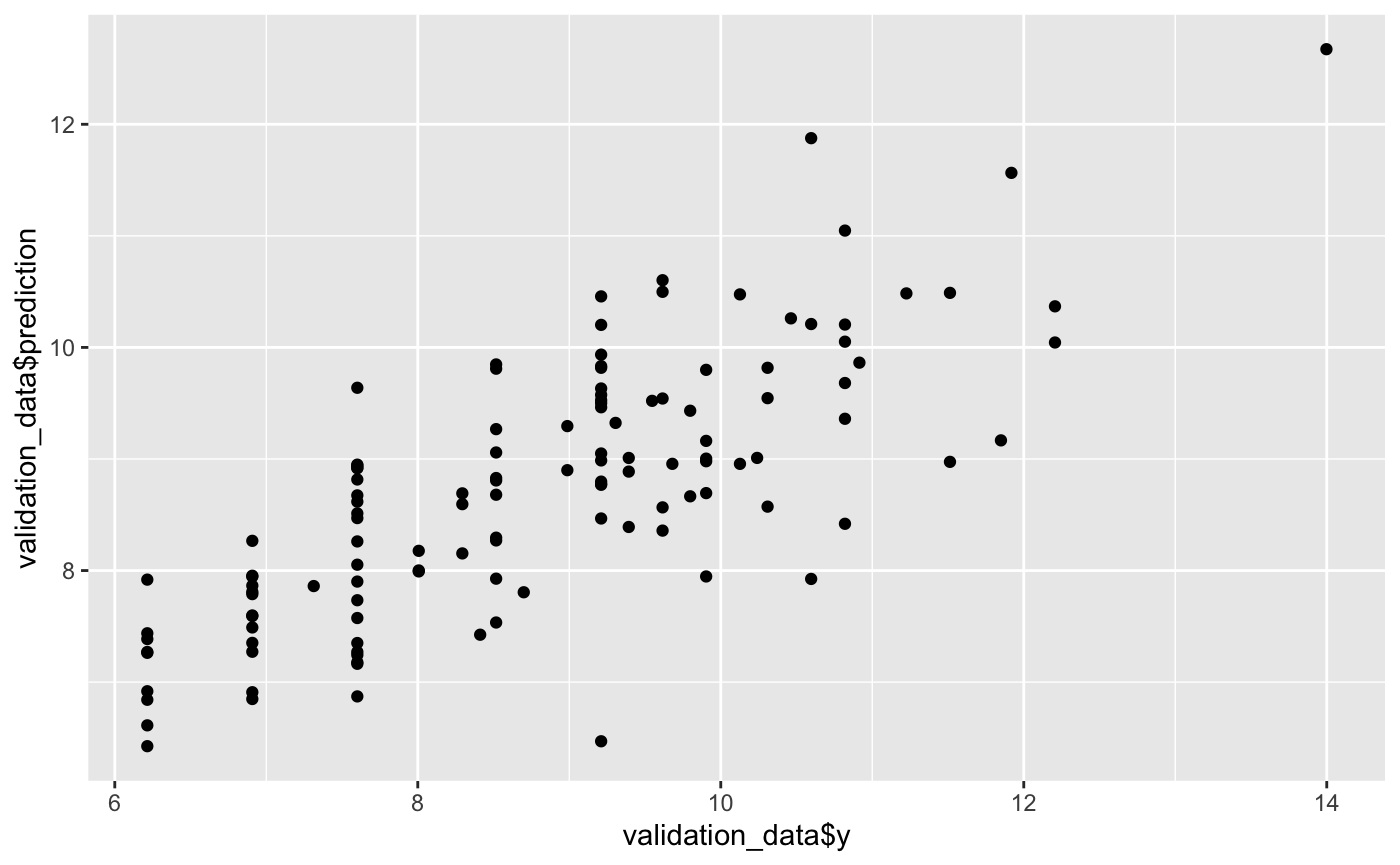
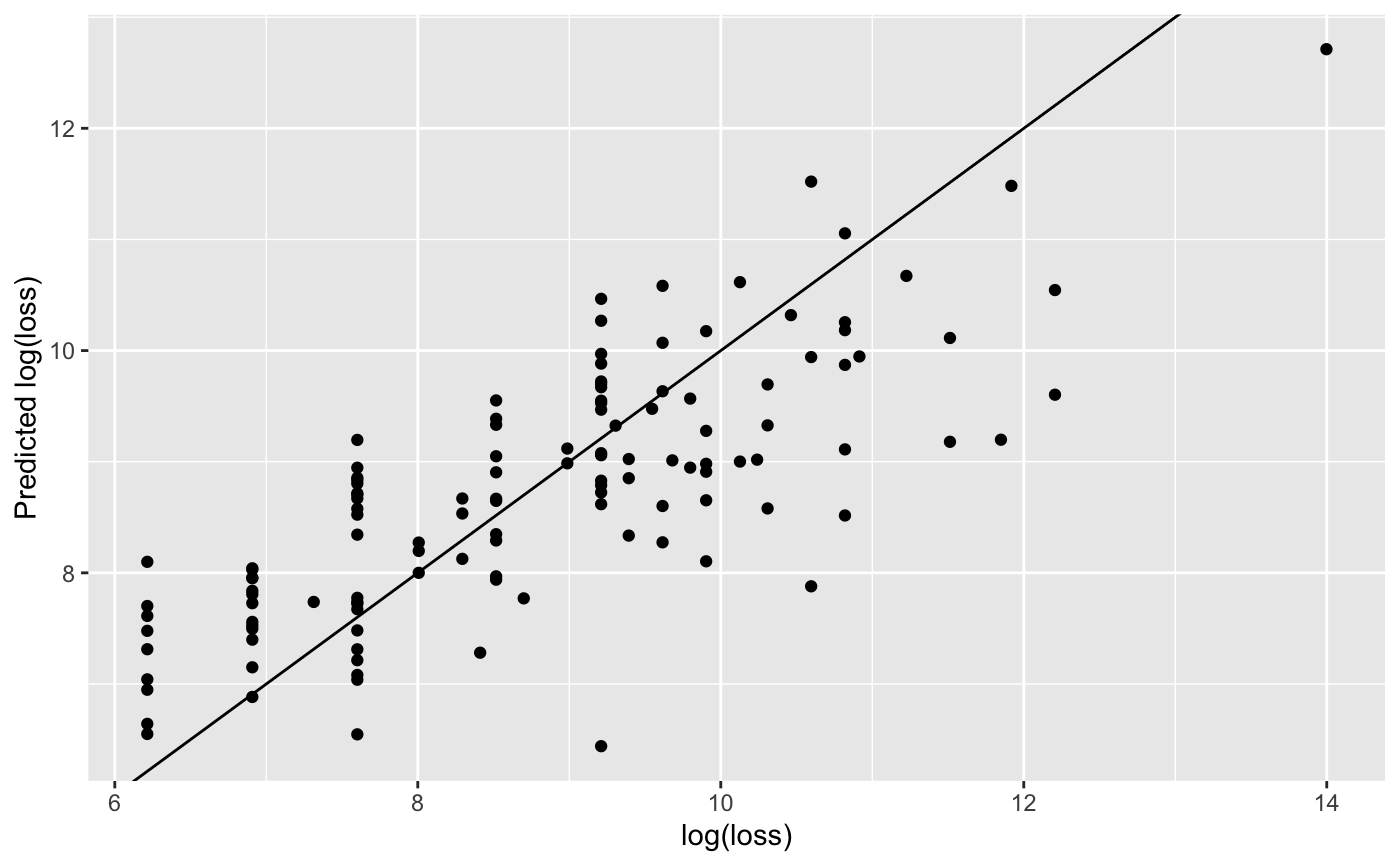
Built site for TAGAM: 0.1.0@

diff --git a/articles/NOAA-Example.html b/articles/NOAA-Example.html
@@ -5,7 +5,7 @@
 <meta charset="utf-8">
 <meta http-equiv="X-UA-Compatible" content="IE=edge">
 <meta name="viewport" content="width=device-width, initial-scale=1.0">
-<title>NOAA Example • TAGAM</title>
+<title>NOAA Storm Event Analysis • TAGAM</title>
 <!-- favicons --><link rel="icon" type="image/png" sizes="16x16" href="../favicon-16x16.png">
 <link rel="icon" type="image/png" sizes="32x32" href="../favicon-32x32.png">
 <link rel="apple-touch-icon" type="image/png" sizes="180x180" href="../apple-touch-icon.png">
@@ -17,7 +17,7 @@
 <script src="../bootstrap-toc.js"></script><!-- Font Awesome icons --><link rel="stylesheet" href="https://cdnjs.cloudflare.com/ajax/libs/font-awesome/5.12.1/css/all.min.css" integrity="sha256-mmgLkCYLUQbXn0B1SRqzHar6dCnv9oZFPEC1g1cwlkk=" crossorigin="anonymous">
 <link rel="stylesheet" href="https://cdnjs.cloudflare.com/ajax/libs/font-awesome/5.12.1/css/v4-shims.min.css" integrity="sha256-wZjR52fzng1pJHwx4aV2AO3yyTOXrcDW7jBpJtTwVxw=" crossorigin="anonymous">
 <!-- clipboard.js --><script src="https://cdnjs.cloudflare.com/ajax/libs/clipboard.js/2.0.6/clipboard.min.js" integrity="sha256-inc5kl9MA1hkeYUt+EC3BhlIgyp/2jDIyBLS6k3UxPI=" crossorigin="anonymous"></script><!-- headroom.js --><script src="https://cdnjs.cloudflare.com/ajax/libs/headroom/0.11.0/headroom.min.js" integrity="sha256-AsUX4SJE1+yuDu5+mAVzJbuYNPHj/WroHuZ8Ir/CkE0=" crossorigin="anonymous"></script><script src="https://cdnjs.cloudflare.com/ajax/libs/headroom/0.11.0/jQuery.headroom.min.js" integrity="sha256-ZX/yNShbjqsohH1k95liqY9Gd8uOiE1S4vZc+9KQ1K4=" crossorigin="anonymous"></script><!-- pkgdown --><link href="../pkgdown.css" rel="stylesheet">
-<script src="../pkgdown.js"></script><meta property="og:title" content="NOAA Example">
+<script src="../pkgdown.js"></script><meta property="og:title" content="NOAA Storm Event Analysis">
 <meta property="og:description" content="TAGAM">
 <meta property="og:image" content="/logo.png">
 <!-- mathjax --><script src="https://cdnjs.cloudflare.com/ajax/libs/mathjax/2.7.5/MathJax.js" integrity="sha256-nvJJv9wWKEm88qvoQl9ekL2J+k/RWIsaSScxxlsrv8k=" crossorigin="anonymous"></script><script src="https://cdnjs.cloudflare.com/ajax/libs/mathjax/2.7.5/config/TeX-AMS-MML_HTMLorMML.js" integrity="sha256-84DKXVJXs0/F8OTMzX4UR909+jtl4G7SPypPavF+GfA=" crossorigin="anonymous"></script><!--[if lt IE 9]>
@@ -61,7 +61,7 @@
   </a>
   <ul class="dropdown-menu" role="menu">
 <li>
-      <a href="../articles/NOAA-Example.html">NOAA Example</a>
+      <a href="../articles/NOAA-Example.html">NOAA Storm Event Analysis</a>
     </li>
     <li>
       <a href="../articles/Spam-Example.html">SMS Spam Filtering Example</a>
@@ -89,7 +89,7 @@
       </header><div class="row">
   <div class="col-md-9 contents">
     <div class="page-header toc-ignore">
-      <h1 data-toc-skip>NOAA Example</h1>
+      <h1 data-toc-skip>NOAA Storm Event Analysis</h1>
             
       
       <small class="dont-index">Source: <a href="https://github.com/scottmanski/TAGAM/blob/master/vignettes/NOAA-Example.Rmd"><code>vignettes/NOAA-Example.Rmd</code></a></small>
@@ -153,10 +153,7 @@
 <span class="co"># unzip("glove.6B.zip")</span>
 <span class="no">embedding_matrix</span> <span class="kw">&lt;-</span> <span class="fu"><a href="https://readr.tidyverse.org/reference/read_table.html">read_table2</a></span>(<span class="st">"glove.6B.300d.txt"</span>, <span class="kw">col_names</span> <span class="kw">=</span> <span class="fl">FALSE</span>)
 <span class="no">word_embeddings</span> <span class="kw">&lt;-</span> <span class="fu"><a href="../reference/formatWordEmbeddings.html">formatWordEmbeddings</a></span>(<span class="no">embedding_matrix</span>, <span class="kw">normalize</span> <span class="kw">=</span> <span class="fl">TRUE</span>)</pre></body></html></div>
-<p>To measure the similarity between two words, we use the cosine similarity between the vector representations of the words. That is, for two words with vector representations <span class="math inline">\(\bf{a}\)</span> and <span class="math inline">\(\bf{b}\)</span>, respectively, the cosine similarity is defined as, <span class="math display">\[\textrm{sim}_{\textrm{cos}} ({\bf a}, {\bf b}) = \frac{{\bf a}\cdot {\bf b}}{\lVert {\bf a}\lVert_2\cdot\lVert{\bf b}\lVert_2}.\]</span> Moreover, for a given phrase, let <span class="math inline">\(D = ({\bf b}_1, ..., {\bf b}_S)\)</span> where each <span class="math inline">\({\bf b}_i\)</span>, <span class="math inline">\(i \in \{1, ..., S\}\)</span> is a word in the phrase. Then define the cosine similarity between a word <span class="math inline">\(\bf a\)</span> and a phrase <span class="math inline">\(D\)</span> as <span class="math display">\[\textrm{sim}_{\textrm{cos}} ({\bf a}, D) = \underset{s=1,...,S}{\max}\left( \textrm{sim}_{\textrm{cos}} ({\bf a}, {\bf b}_s)\right).\]</span></p>
-<p>In this way, we construct a matrix of cosine similarities <span class="math inline">\(\boldsymbol X _{n\times p_n}\)</span> where <span class="math inline">\(n\)</span> is the number of observations, <span class="math inline">\(p_n\)</span> is the number of unique words used. Let <span class="math inline">\(W\)</span> be the vector of unique words with length <span class="math inline">\(p_n\)</span>, and let <span class="math inline">\(\boldsymbol D\)</span> be the list of descriptions with length <span class="math inline">\(n\)</span>, where each element in the list is a vector <span class="math inline">\(D_i\)</span> containing the words used in description <span class="math inline">\(i\)</span>. Then <span class="math display">\[X_{ij} = \textrm{sim}_{\textrm{cos}} ({W_j}, D_i) \,\,\,\textrm{ for }\,\,\, i \in \{1,...,n\}, \,j \in \{1,...,p_n\}.\]</span></p>
-<p>Each value in the matrix is now continuous and restricted to <span class="math inline">\([-1, 1]\)</span>.</p>
-<p><code>cs.matrix</code> is used to construct the cosine similarity matrix from the word embeddings. In order to use <code>cs.matrix</code>, the descriptions need to be reformatted into a tibble with columns <em>line</em> and <em>word</em>. This can be done using the <code>tidytext</code> package,</p>
+<p><code><a href="../reference/cs.matrix.html">TAGAM::cs.matrix</a></code> is used to construct the cosine similarity matrix from the word embeddings. In order to use <code><a href="../reference/cs.matrix.html">TAGAM::cs.matrix</a></code>, the descriptions need to be reformatted into a tibble with columns <em>line</em> and <em>word</em>. This can be done using the <code>tidytext</code> package,</p>
 <div class="sourceCode" id="cb7"><html><body><pre class="r"><span class="no">tidy_training</span> <span class="kw">&lt;-</span> <span class="fu"><a href="https://dplyr.tidyverse.org/reference/reexports.html">tibble</a></span>(<span class="kw">line</span> <span class="kw">=</span> <span class="fl">1</span>:<span class="fu"><a href="https://rdrr.io/r/base/length.html">length</a></span>(<span class="no">training_raw</span>), <span class="kw">text</span> <span class="kw">=</span> <span class="no">training_raw</span>) <span class="kw">%&gt;%</span>
     <span class="fu"><a href="https://rdrr.io/pkg/tidytext/man/unnest_tokens.html">unnest_tokens</a></span>(<span class="no">word</span>, <span class="no">text</span>)
 
@@ -194,9 +191,15 @@
 <span class="co">#&gt; lambda.factor changed to 0.00174752840000769</span>
 <span class="co">#&gt; Starting stage 2</span>
 <span class="co">#&gt; Starting stage 3</span></pre></body></html></div>
+</div>
+<div id="model-prediction" class="section level2">
+<h2 class="hasAnchor">
+<a href="#model-prediction" class="anchor"></a>Model Prediction</h2>
 <div class="sourceCode" id="cb11"><html><body><pre class="r"><span class="no">validation_data</span>$<span class="no">prediction</span> <span class="kw">&lt;-</span> <span class="fu"><a href="https://rdrr.io/r/stats/predict.html">predict</a></span>(<span class="no">gam3.mod</span>, <span class="kw">newdata</span> <span class="kw">=</span> <span class="no">validation_data</span>)
 <span class="fu"><a href="https://ggplot2.tidyverse.org/reference/ggplot.html">ggplot</a></span>(<span class="no">validation_data</span>) +
-  <span class="fu"><a href="https://ggplot2.tidyverse.org/reference/geom_point.html">geom_point</a></span>(<span class="fu"><a href="https://ggplot2.tidyverse.org/reference/aes.html">aes</a></span>(<span class="kw">x</span> <span class="kw">=</span> <span class="no">validation_data</span>$<span class="no">y</span>, <span class="kw">y</span> <span class="kw">=</span> <span class="no">validation_data</span>$<span class="no">prediction</span>))
+  <span class="fu"><a href="https://ggplot2.tidyverse.org/reference/geom_point.html">geom_point</a></span>(<span class="fu"><a href="https://ggplot2.tidyverse.org/reference/aes.html">aes</a></span>(<span class="kw">x</span> <span class="kw">=</span> <span class="no">validation_data</span>$<span class="no">y</span>, <span class="kw">y</span> <span class="kw">=</span> <span class="no">validation_data</span>$<span class="no">prediction</span>)) +
+  <span class="fu"><a href="https://ggplot2.tidyverse.org/reference/geom_abline.html">geom_abline</a></span>(<span class="fu"><a href="https://ggplot2.tidyverse.org/reference/aes.html">aes</a></span>(<span class="kw">intercept</span> <span class="kw">=</span> <span class="fl">0</span>, <span class="kw">slope</span> <span class="kw">=</span> <span class="fl">1</span>)) +
+  <span class="fu"><a href="https://ggplot2.tidyverse.org/reference/labs.html">labs</a></span>(<span class="kw">x</span> <span class="kw">=</span> <span class="st">"log(loss)"</span>, <span class="kw">y</span> <span class="kw">=</span> <span class="st">"Predicted log(loss)"</span>)
 <span class="co">#&gt; Warning: Use of `validation_data$y` is discouraged. Use `y` instead.</span>
 <span class="co">#&gt; Warning: Use of `validation_data$prediction` is discouraged. Use `prediction`</span>
 <span class="co">#&gt; instead.</span></pre></body></html></div>
@@ -215,7 +218,7 @@
 
 
       <footer><div class="copyright">
-  <p>Developed by The package maintainer.</p>
+  <p>Developed by Scott Manski.</p>
 </div>
 
 <div class="pkgdown">

diff --git a/articles/Spam-Example.html b/articles/Spam-Example.html
@@ -61,7 +61,7 @@
   </a>
   <ul class="dropdown-menu" role="menu">
 <li>
-      <a href="../articles/NOAA-Example.html">NOAA Example</a>
+      <a href="../articles/NOAA-Example.html">NOAA Storm Event Analysis</a>
     </li>
     <li>
       <a href="../articles/Spam-Example.html">SMS Spam Filtering Example</a>
@@ -111,7 +111,6 @@
 <div id="data" class="section level2">
 <h2 class="hasAnchor">
 <a href="#data" class="anchor"></a>Data</h2>
-<p>As previously mentioned, we will gather the data using the <code>rnoaa</code> package. The following code gathers and combines data from 2000 to 2018.</p>
 <p>As previously mentioned, we will download data from <a href="https://archive.ics.uci.edu/ml/index.php">UCI Machine Learning Repository</a>.</p>
 <div class="sourceCode" id="cb2"><html><body><pre class="r"><span class="no">temp</span> <span class="kw">&lt;-</span> <span class="fu"><a href="https://rdrr.io/r/base/tempfile.html">tempfile</a></span>()
 <span class="fu"><a href="https://rdrr.io/r/utils/download.file.html">download.file</a></span>(<span class="st">"https://archive.ics.uci.edu/ml/machine-learning-databases/00228/smsspamcollection.zip"</span>, <span class="no">temp</span>)
@@ -127,8 +126,6 @@
 
 <span class="no">testing</span> <span class="kw">&lt;-</span> <span class="no">spam</span>[-<span class="no">samp</span>, ]
 <span class="no">y_testing</span> <span class="kw">&lt;-</span> <span class="no">spam</span>$<span class="no">spam</span>[-<span class="no">samp</span>]</pre></body></html></div>
-<p>For the analysis, we use observations resulting from <em>Thunderstorm Wind</em> that occured in <em>Michigan</em>. We also remove all observations that don’t have an <em>event_narrative</em>. Finally, in order to remove empty values and data entry errors, we only take observations with <code>nchar(damage_property) &gt; 1</code>.</p>
-<p>After filtering the data, we see the dollar amounts in <code>noaa_subset$damage_property</code> may contain <em>K</em>, <em>M</em>, or <em>B</em> to represent thousands, millions, or billions of dollars respectively. The following code creates <code>noaa_subset$damage_property_num</code> which contains the numeric value represented in <code>noaa_subset$damage_property</code>. Finally, we take only the observations resulting in positive property loss.</p>
 </div>
 <div id="text-conversion" class="section level2">
 <h2 class="hasAnchor">
@@ -138,9 +135,6 @@
 <span class="co"># unzip("glove.6B.zip")</span>
 <span class="no">embedding_matrix</span> <span class="kw">&lt;-</span> <span class="fu">read_table2</span>(<span class="st">"glove.6B.300d.txt"</span>, <span class="kw">col_names</span> <span class="kw">=</span> <span class="fl">FALSE</span>)
 <span class="no">word_embeddings</span> <span class="kw">&lt;-</span> <span class="fu"><a href="../reference/formatWordEmbeddings.html">formatWordEmbeddings</a></span>(<span class="no">embedding_matrix</span>, <span class="kw">normalize</span> <span class="kw">=</span> <span class="fl">TRUE</span>)</pre></body></html></div>
-<p>To measure the similarity between two words, we use the cosine similarity between the vector representations of the words. That is, for two words with vector representations <span class="math inline">\(\bf{a}\)</span> and <span class="math inline">\(\bf{b}\)</span>, respectively, the cosine similarity is defined as, <span class="math display">\[\textrm{sim}_{\textrm{cos}} ({\bf a}, {\bf b}) = \frac{{\bf a}\cdot {\bf b}}{\lVert {\bf a}\lVert_2\cdot\lVert{\bf b}\lVert_2}.\]</span> Moreover, for a given phrase, let <span class="math inline">\(D = ({\bf b}_1, ..., {\bf b}_S)\)</span> where each <span class="math inline">\({\bf b}_i\)</span>, <span class="math inline">\(i \in \{1, ..., S\}\)</span> is a word in the phrase. Then define the cosine similarity between a word <span class="math inline">\(\bf a\)</span> and a phrase <span class="math inline">\(D\)</span> as <span class="math display">\[\textrm{sim}_{\textrm{cos}} ({\bf a}, D) = \underset{s=1,...,S}{\max}\left( \textrm{sim}_{\textrm{cos}} ({\bf a}, {\bf b}_s)\right).\]</span></p>
-<p>In this way, we construct a matrix of cosine similarities <span class="math inline">\(\boldsymbol X _{n\times p_n}\)</span> where <span class="math inline">\(n\)</span> is the number of observations, <span class="math inline">\(p_n\)</span> is the number of unique words used. Let <span class="math inline">\(W\)</span> be the vector of unique words with length <span class="math inline">\(p_n\)</span>, and let <span class="math inline">\(\boldsymbol D\)</span> be the list of descriptions with length <span class="math inline">\(n\)</span>, where each element in the list is a vector <span class="math inline">\(D_i\)</span> containing the words used in description <span class="math inline">\(i\)</span>. Then <span class="math display">\[X_{ij} = \textrm{sim}_{\textrm{cos}} ({W_j}, D_i) \,\,\,\textrm{ for }\,\,\, i \in \{1,...,n\}, \,j \in \{1,...,p_n\}.\]</span></p>
-<p>Each value in the matrix is now continuous and restricted to <span class="math inline">\([-1, 1]\)</span>.</p>
 <p><code>cs.matrix</code> is used to construct the cosine similarity matrix from the word embeddings. In order to use <code>cs.matrix</code>, the descriptions need to be reformatted into a tibble with columns <em>line</em> and <em>word</em>. This can be done using the <code>tidytext</code> package,</p>
 <div class="sourceCode" id="cb4"><html><body><pre class="r"><span class="no">tidy_training</span> <span class="kw">&lt;-</span> <span class="fu">tibble</span>(<span class="kw">line</span> <span class="kw">=</span> <span class="fl">1</span>:<span class="fu"><a href="https://rdrr.io/r/base/nrow.html">nrow</a></span>(<span class="no">training</span>), <span class="kw">text</span> <span class="kw">=</span> <span class="no">training</span>$<span class="no">text</span>) <span class="kw">%&gt;%</span>
   <span class="fu"><a href="https://rdrr.io/pkg/tidytext/man/unnest_tokens.html">unnest_tokens</a></span>(<span class="no">word</span>, <span class="no">text</span>) <span class="kw">%&gt;%</span>
@@ -266,7 +260,7 @@
 
 
       <footer><div class="copyright">
-  <p>Developed by The package maintainer.</p>
+  <p>Developed by Scott Manski.</p>
 </div>
 
 <div class="pkgdown">

diff --git a/index.html b/index.html
@@ -5,7 +5,7 @@
 <meta charset="utf-8">
 <meta http-equiv="X-UA-Compatible" content="IE=edge">
 <meta name="viewport" content="width=device-width, initial-scale=1.0">
-<title>What the Package Does (Title Case) • TAGAM</title>
+<title>Utilize word embedding matrices for Statistical analysis • TAGAM</title>
 <!-- favicons --><link rel="icon" type="image/png" sizes="16x16" href="favicon-16x16.png">
 <link rel="icon" type="image/png" sizes="32x32" href="favicon-32x32.png">
 <link rel="apple-touch-icon" type="image/png" sizes="180x180" href="apple-touch-icon.png">
@@ -17,9 +17,8 @@
 <script src="bootstrap-toc.js"></script><!-- Font Awesome icons --><link rel="stylesheet" href="https://cdnjs.cloudflare.com/ajax/libs/font-awesome/5.12.1/css/all.min.css" integrity="sha256-mmgLkCYLUQbXn0B1SRqzHar6dCnv9oZFPEC1g1cwlkk=" crossorigin="anonymous">
 <link rel="stylesheet" href="https://cdnjs.cloudflare.com/ajax/libs/font-awesome/5.12.1/css/v4-shims.min.css" integrity="sha256-wZjR52fzng1pJHwx4aV2AO3yyTOXrcDW7jBpJtTwVxw=" crossorigin="anonymous">
 <!-- clipboard.js --><script src="https://cdnjs.cloudflare.com/ajax/libs/clipboard.js/2.0.6/clipboard.min.js" integrity="sha256-inc5kl9MA1hkeYUt+EC3BhlIgyp/2jDIyBLS6k3UxPI=" crossorigin="anonymous"></script><!-- headroom.js --><script src="https://cdnjs.cloudflare.com/ajax/libs/headroom/0.11.0/headroom.min.js" integrity="sha256-AsUX4SJE1+yuDu5+mAVzJbuYNPHj/WroHuZ8Ir/CkE0=" crossorigin="anonymous"></script><script src="https://cdnjs.cloudflare.com/ajax/libs/headroom/0.11.0/jQuery.headroom.min.js" integrity="sha256-ZX/yNShbjqsohH1k95liqY9Gd8uOiE1S4vZc+9KQ1K4=" crossorigin="anonymous"></script><!-- pkgdown --><link href="pkgdown.css" rel="stylesheet">
-<script src="pkgdown.js"></script><meta property="og:title" content="What the Package Does (Title Case)">
-<meta property="og:description" content="More about what it does (maybe more than one line)
-    Use four spaces when indenting paragraphs within the Description.">
+<script src="pkgdown.js"></script><meta property="og:title" content="Utilize word embedding matrices for Statistical analysis">
+<meta property="og:description" content="The goal of TAGAM is to streamline the use of word embeddings in text analysis. The package is designed to take raw textual descriptions and transform the information for use in your analysis. The package also includes functions for running a three stage generalized additive model framework.">
 <meta property="og:image" content="/logo.png">
 <!-- mathjax --><script src="https://cdnjs.cloudflare.com/ajax/libs/mathjax/2.7.5/MathJax.js" integrity="sha256-nvJJv9wWKEm88qvoQl9ekL2J+k/RWIsaSScxxlsrv8k=" crossorigin="anonymous"></script><script src="https://cdnjs.cloudflare.com/ajax/libs/mathjax/2.7.5/config/TeX-AMS-MML_HTMLorMML.js" integrity="sha256-84DKXVJXs0/F8OTMzX4UR909+jtl4G7SPypPavF+GfA=" crossorigin="anonymous"></script><!--[if lt IE 9]>
 <script src="https://oss.maxcdn.com/html5shiv/3.7.3/html5shiv.min.js"></script>
@@ -62,7 +61,7 @@
   </a>
   <ul class="dropdown-menu" role="menu">
 <li>
-      <a href="articles/NOAA-Example.html">NOAA Example</a>
+      <a href="articles/NOAA-Example.html">NOAA Storm Event Analysis</a>
     </li>
     <li>
       <a href="articles/Spam-Example.html">SMS Spam Filtering Example</a>
@@ -170,7 +169,7 @@
 <div class="developers">
 <h2>Developers</h2>
 <ul class="list-unstyled">
-<li>The package maintainer <br><small class="roles"> Maintainer </small>  </li>
+<li>Scott Manski <br><small class="roles"> Maintainer </small>  </li>
 </ul>
 </div>
 
@@ -179,7 +178,7 @@
 
 
       <footer><div class="copyright">
-  <p>Developed by The package maintainer.</p>
+  <p>Developed by Scott Manski.</p>
 </div>
 
 <div class="pkgdown">

diff --git a/articles/index.html b/articles/index.html
@@ -102,7 +102,7 @@
   </a>
   <ul class="dropdown-menu" role="menu">
     <li>
-      <a href="../articles/NOAA-Example.html">NOAA Example</a>
+      <a href="../articles/NOAA-Example.html">NOAA Storm Event Analysis</a>
     </li>
     <li>
       <a href="../articles/Spam-Example.html">SMS Spam Filtering Example</a>
@@ -138,7 +138,7 @@
       <p class="section-desc"></p>
 
       <dl>
-        <dt><a href="NOAA-Example.html">NOAA Example</a></dt>
+        <dt><a href="NOAA-Example.html">NOAA Storm Event Analysis</a></dt>
         <dd></dt>
         <dt><a href="Spam-Example.html">SMS Spam Filtering Example</a></dt>
         <dd></dt>
@@ -150,7 +150,7 @@
 
       <footer>
       <div class="copyright">
-  <p>Developed by The package maintainer.</p>
+  <p>Developed by Scott Manski.</p>
 </div>
 
 <div class="pkgdown">

diff --git a/authors.html b/authors.html
@@ -102,7 +102,7 @@
   </a>
   <ul class="dropdown-menu" role="menu">
     <li>
-      <a href="articles/NOAA-Example.html">NOAA Example</a>
+      <a href="articles/NOAA-Example.html">NOAA Storm Event Analysis</a>
     </li>
     <li>
       <a href="articles/Spam-Example.html">SMS Spam Filtering Example</a>
@@ -135,7 +135,7 @@
 
     <ul class="list-unstyled">
       <li>
-        <p><strong>The package maintainer</strong>. Maintainer. 
+        <p><strong>Scott Manski</strong>. Maintainer. 
         </p>
       </li>
     </ul>
@@ -148,7 +148,7 @@
 
       <footer>
       <div class="copyright">
-  <p>Developed by The package maintainer.</p>
+  <p>Developed by Scott Manski.</p>
 </div>
 
 <div class="pkgdown">

diff --git a/reference/embedding_matrix_example.html b/reference/embedding_matrix_example.html
@@ -104,7 +104,7 @@ are taken from the glove.6B.300d.txt file from https://nlp.stanford.edu/projects
   </a>
   <ul class="dropdown-menu" role="menu">
     <li>
-      <a href="../articles/NOAA-Example.html">NOAA Example</a>
+      <a href="../articles/NOAA-Example.html">NOAA Storm Event Analysis</a>
     </li>
     <li>
       <a href="../articles/Spam-Example.html">SMS Spam Filtering Example</a>
@@ -163,7 +163,7 @@ are taken from the <code>glove.6B.300d.txt</code> file from <a href='https://nlp
 
       <footer>
       <div class="copyright">
-  <p>Developed by The package maintainer.</p>
+  <p>Developed by Scott Manski.</p>
 </div>
 
 <div class="pkgdown">

diff --git a/reference/gam3.html b/reference/gam3.html
@@ -104,7 +104,7 @@ from the gglasso package, and GAM functions from the mgcv package." />
   </a>
   <ul class="dropdown-menu" role="menu">
     <li>
-      <a href="../articles/NOAA-Example.html">NOAA Example</a>
+      <a href="../articles/NOAA-Example.html">NOAA Storm Event Analysis</a>
     </li>
     <li>
       <a href="../articles/Spam-Example.html">SMS Spam Filtering Example</a>
@@ -265,7 +265,7 @@ from the <code>gglasso</code> package, and GAM functions from the <code>mgcv</co
 
       <footer>
       <div class="copyright">
-  <p>Developed by The package maintainer.</p>
+  <p>Developed by Scott Manski.</p>
 </div>
 
 <div class="pkgdown">

diff --git a/reference/cs.html b/reference/cs.html
@@ -103,7 +103,7 @@
   </a>
   <ul class="dropdown-menu" role="menu">
     <li>
-      <a href="../articles/NOAA-Example.html">NOAA Example</a>
+      <a href="../articles/NOAA-Example.html">NOAA Storm Event Analysis</a>
     </li>
     <li>
       <a href="../articles/Spam-Example.html">SMS Spam Filtering Example</a>
@@ -195,7 +195,7 @@ is a matrix of \(m \times n\) dimension with each entry in cell (i, j) defined a
 
       <footer>
       <div class="copyright">
-  <p>Developed by The package maintainer.</p>
+  <p>Developed by Scott Manski.</p>
 </div>
 
 <div class="pkgdown">

diff --git a/reference/formatWordEmbeddings.html b/reference/formatWordEmbeddings.html
@@ -103,7 +103,7 @@
   </a>
   <ul class="dropdown-menu" role="menu">
     <li>
-      <a href="../articles/NOAA-Example.html">NOAA Example</a>
+      <a href="../articles/NOAA-Example.html">NOAA Storm Event Analysis</a>
     </li>
     <li>
       <a href="../articles/Spam-Example.html">SMS Spam Filtering Example</a>
@@ -198,7 +198,7 @@ embedding for that entry's name (see examples).</p>
 
       <footer>
       <div class="copyright">
-  <p>Developed by The package maintainer.</p>
+  <p>Developed by Scott Manski.</p>
 </div>
 
 <div class="pkgdown">

diff --git a/reference/cs.matrix.html b/reference/cs.matrix.html
@@ -104,7 +104,7 @@ vector of words." />
   </a>
   <ul class="dropdown-menu" role="menu">
     <li>
-      <a href="../articles/NOAA-Example.html">NOAA Example</a>
+      <a href="../articles/NOAA-Example.html">NOAA Storm Event Analysis</a>
     </li>
     <li>
       <a href="../articles/Spam-Example.html">SMS Spam Filtering Example</a>
@@ -233,7 +233,7 @@ in a similar fashion.</p>
 
       <footer>
       <div class="copyright">
-  <p>Developed by The package maintainer.</p>
+  <p>Developed by Scott Manski.</p>
 </div>
 
 <div class="pkgdown">

diff --git a/404.html b/404.html
@@ -102,7 +102,7 @@
   </a>
   <ul class="dropdown-menu" role="menu">
     <li>
-      <a href="articles/NOAA-Example.html">NOAA Example</a>
+      <a href="articles/NOAA-Example.html">NOAA Storm Event Analysis</a>
     </li>
     <li>
       <a href="articles/Spam-Example.html">SMS Spam Filtering Example</a>
@@ -149,7 +149,7 @@ Content not found. Please use links in the navbar.
 
       <footer>
       <div class="copyright">
-  <p>Developed by The package maintainer.</p>
+  <p>Developed by Scott Manski.</p>
 </div>
 
 <div class="pkgdown">

diff --git a/reference/gamSim2.html b/reference/gamSim2.html
@@ -103,7 +103,7 @@
   </a>
   <ul class="dropdown-menu" role="menu">
     <li>
-      <a href="../articles/NOAA-Example.html">NOAA Example</a>
+      <a href="../articles/NOAA-Example.html">NOAA Storm Event Analysis</a>
     </li>
     <li>
       <a href="../articles/Spam-Example.html">SMS Spam Filtering Example</a>
@@ -206,7 +206,7 @@ in the <code>probs</code> argument.</p>
 
       <footer>
       <div class="copyright">
-  <p>Developed by The package maintainer.</p>
+  <p>Developed by Scott Manski.</p>
 </div>
 
 <div class="pkgdown">
